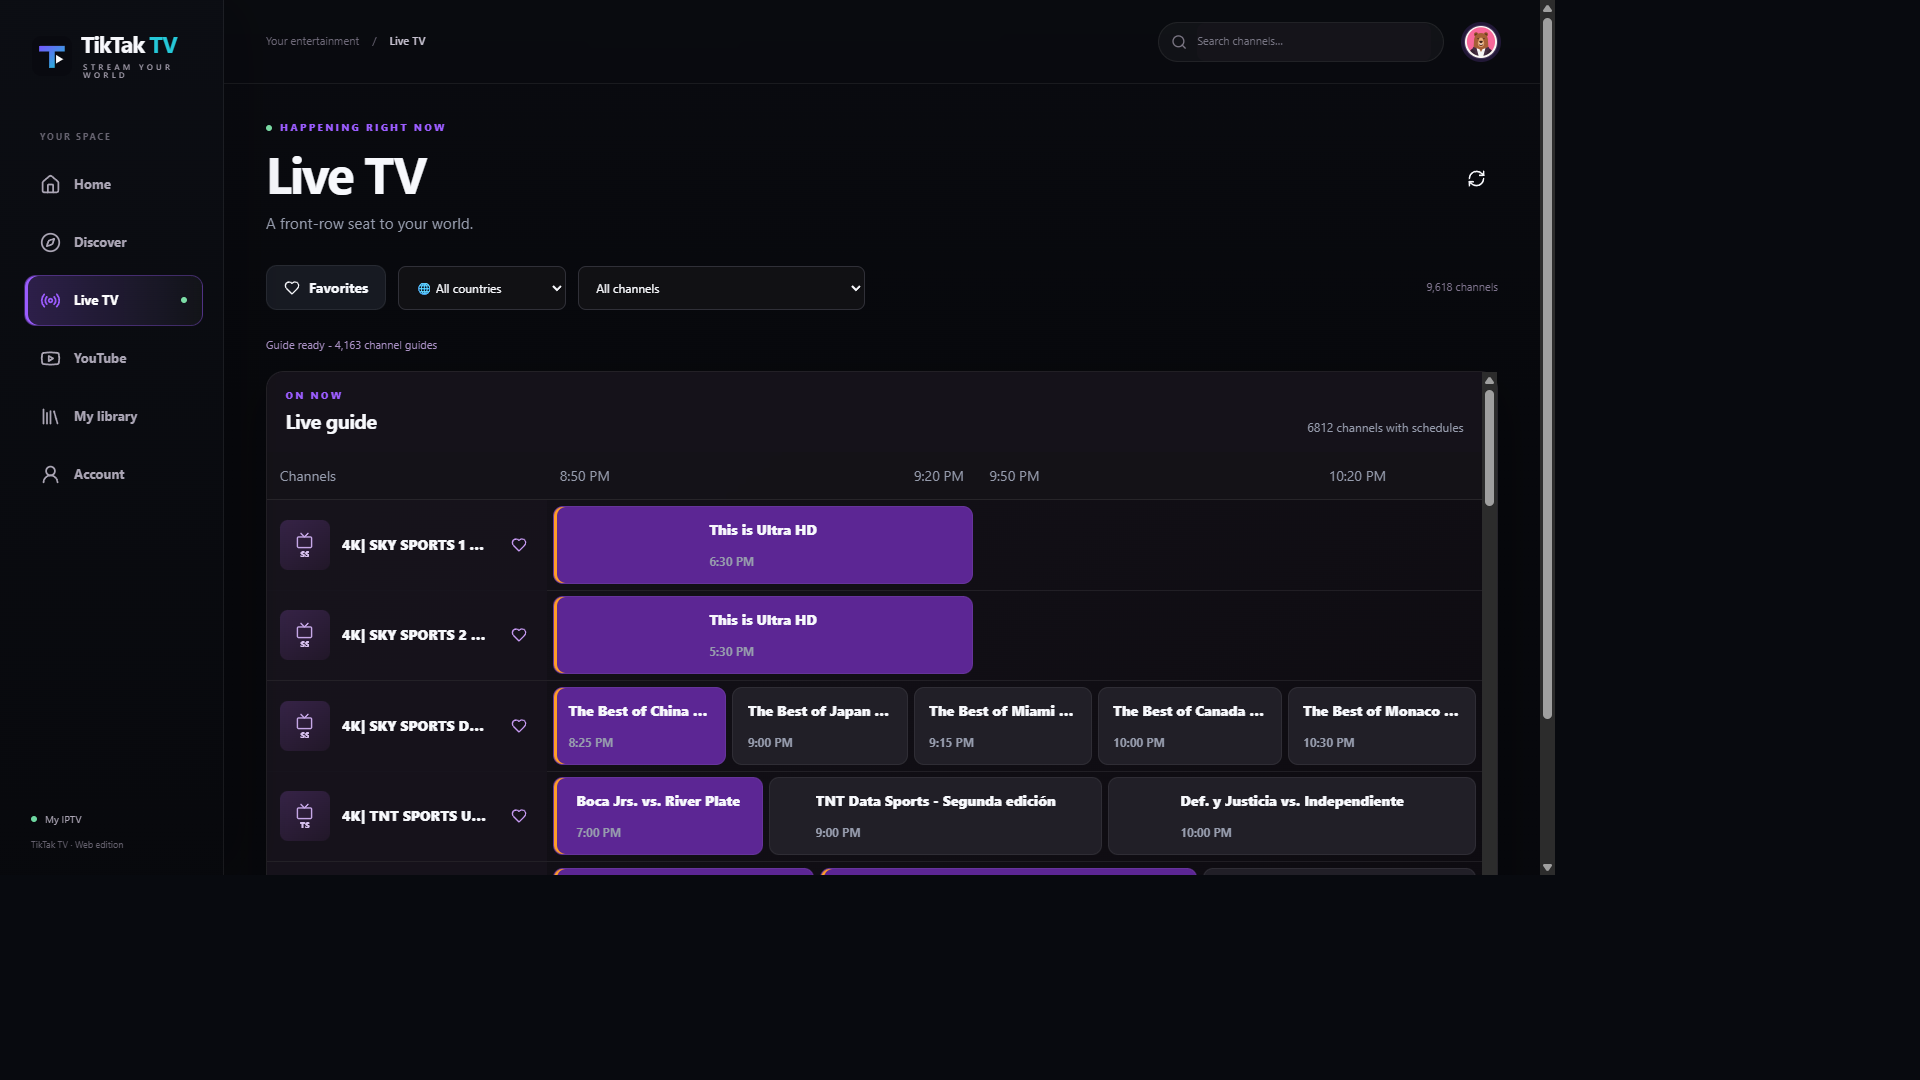
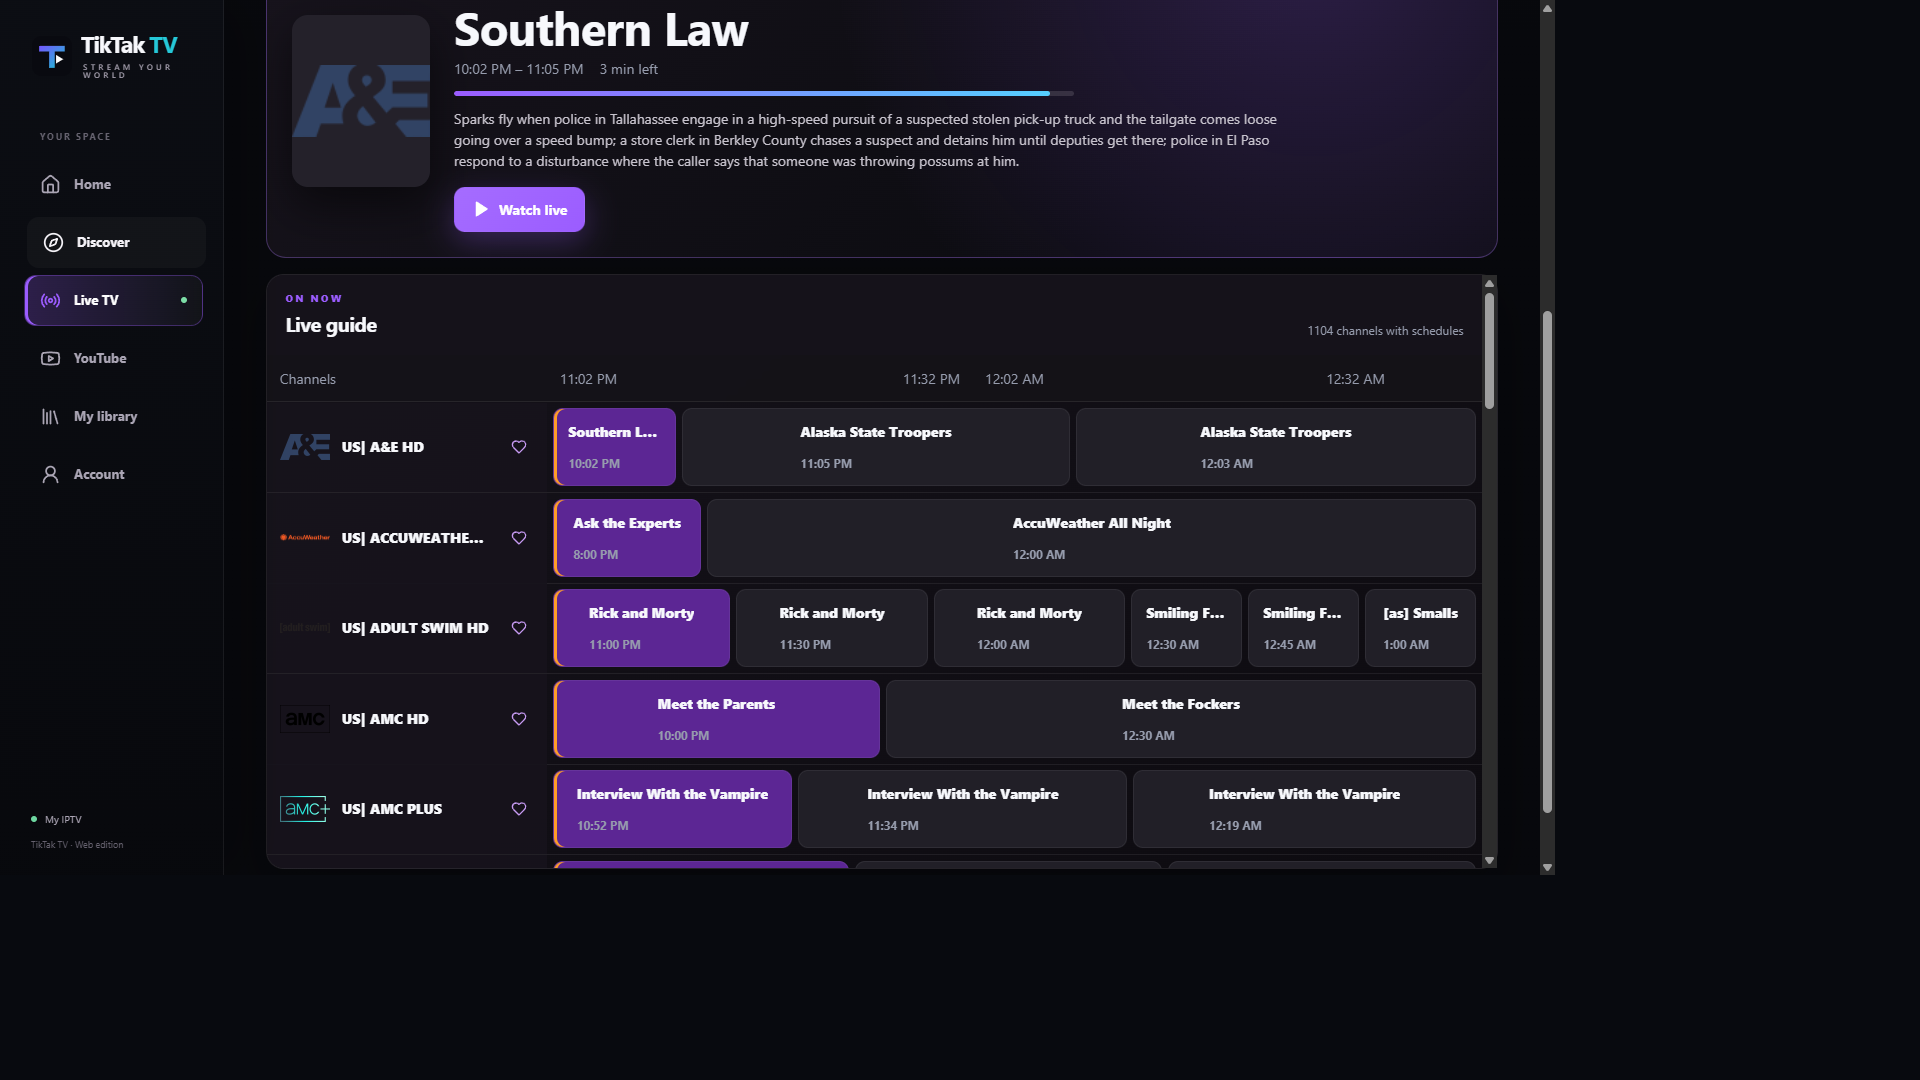
Finish in-app feedback and defer channel artwork

diff --git a/web/src/ChannelArt.tsx b/web/src/ChannelArt.tsx
@@ -68,6 +68,36 @@ export default function ChannelArt({
   const [source, setSource] = useState(candidates[0] ?? "");
   const [failed, setFailed] = useState(!candidates.length);
   const objectUrl = useRef("");
+  const placeholder = useRef<HTMLDivElement>(null);
+  const [relayVisible, setRelayVisible] = useState(
+    !candidates[0]?.startsWith("http:"),
+  );
+
+  useEffect(() => {
+    const first = candidates[0] ?? "";
+    if (!first.startsWith("http:")) {
+      setRelayVisible(true);
+      return;
+    }
+    setRelayVisible(false);
+    const node = placeholder.current;
+    if (!node || !("IntersectionObserver" in window)) {
+      setRelayVisible(true);
+      return;
+    }
+    const observer = new IntersectionObserver(
+      (entries) => {
+        if (!entries.some((entry) => entry.isIntersecting)) return;
+        setRelayVisible(true);
+        observer.disconnect();
+      },
+      { rootMargin: "500px 0px" },
+    );
+    observer.observe(node);
+    return () => observer.disconnect();
+    // The joined signature intentionally resets observation only when a URL changes.
+    // eslint-disable-next-line react-hooks/exhaustive-deps
+  }, [signature]);
 
   useEffect(() => {
     let cancelled = false;
@@ -79,7 +109,7 @@ export default function ChannelArt({
     const first = candidates[0] ?? "";
     setSource(first.startsWith("http:") ? "" : first);
     setFailed(!candidates.length);
-    if (first.startsWith("http:"))
+    if (first.startsWith("http:") && relayVisible)
       void (async () => {
         for (let candidateIndex = 0; candidateIndex < candidates.length; candidateIndex += 1) {
           const candidate = candidates[candidateIndex];
@@ -109,7 +139,7 @@ export default function ChannelArt({
     };
     // The joined signature intentionally resets this image only when a URL changes.
     // eslint-disable-next-line react-hooks/exhaustive-deps
-  }, [signature]);
+  }, [signature, relayVisible]);
 
   const tryNext = async () => {
     const current = candidates[index];
@@ -152,7 +182,11 @@ export default function ChannelArt({
       onError={() => void tryNext()}
     />
   ) : (
-    <div className="art-fallback channel-art-fallback" aria-hidden="true">
+    <div
+      ref={placeholder}
+      className="art-fallback channel-art-fallback"
+      aria-hidden="true"
+    >
       <Tv />
       <span>{initials(channel.name)}</span>
     </div>

diff --git a/web/src/App.tsx b/web/src/App.tsx
@@ -46,6 +46,7 @@ import {
   UserRound,
   Sparkles,
   Star,
+  Trophy,
   Tv,
   Trash2,
   X,
@@ -243,7 +244,9 @@ function ProfileGate({
   const [busy, setBusy] = useState(true);
   const [error, setError] = useState("");
   const [authMode, setAuthMode] = useState<"signin" | "signup">("signin");
-  const [preview, setPreview] = useState<"home" | "live" | "youtube">("home");
+  const [preview, setPreview] = useState<
+    "home" | "live" | "sports" | "youtube"
+  >("home");
   const [notice, setNotice] = useState("");
   async function refresh() {
     const { data } = await account.auth.getSession();
@@ -328,7 +331,9 @@ function ProfileGate({
                     ? "TikTak TV home screen with featured movies and continue watching"
                     : preview === "live"
                       ? "TikTak TV Live TV guide with channels and schedules"
-                      : "TikTak TV YouTube screen with personalized video rows"
+                      : preview === "sports"
+                        ? "TikTak TV Sports screen with live games, scores, and channel artwork"
+                        : "TikTak TV YouTube screen with personalized video rows"
                 }
               />
             </div>
@@ -354,6 +359,12 @@ function ProfileGate({
                 onClick={() => setPreview("youtube")}
               >
                 <Youtube size={16} /> YouTube & music
+              </button>
+              <button
+                className={preview === "sports" ? "active" : ""}
+                onClick={() => setPreview("sports")}
+              >
+                <Trophy size={16} /> Sports & scores
               </button>
             </div>
           </div>

diff --git a/web/src/PrivacyStatus.tsx b/web/src/PrivacyStatus.tsx
@@ -18,7 +18,7 @@ import {
   type UsageSummary,
 } from "./usage-analytics";
 
-export default function PrivacyStatus() {
+export default function PrivacyStatus({ onOpenFeedback }: { onOpenFeedback: () => void }) {
   const [service, setService] = useState<"checking" | "online" | "offline">(
     "checking",
   );
@@ -285,13 +285,9 @@ export default function PrivacyStatus() {
             passwords and API keys. Clearing site data removes local caches.
           </p>
         </details>
-        <a
-          href="https://github.com/zachgus33/Tik-TakTV/issues/new"
-          target="_blank"
-          rel="noreferrer"
-        >
-          Send feedback or report a problem <ExternalLink size={15} />
-        </a>
+        <button type="button" className="text-link" onClick={onOpenFeedback}>
+          Send feedback or report a problem
+        </button>
       </section>
     </div>
   );

diff --git a/web/src/styles.css b/web/src/styles.css
@@ -2171,6 +2171,19 @@ button.selected {
   color: var(--muted);
   line-height: 1.65;
 }
+.public-launch-card .text-link {
+  width: fit-content;
+  padding: 0;
+  border: 0;
+  background: transparent;
+  color: var(--accent-soft, #f472b6);
+  font: inherit;
+  font-weight: 700;
+  text-align: left;
+}
+.public-launch-card .text-link:hover {
+  text-decoration: underline;
+}
 :focus-visible {
   outline: 3px solid color-mix(in srgb, var(--accent) 75%, white);
   outline-offset: 3px;
@@ -7003,7 +7016,7 @@ button.primary:hover,
 }
 .profile-preview-tabs {
   display: grid;
-  grid-template-columns: repeat(3, 1fr);
+  grid-template-columns: repeat(4, 1fr);
   gap: 9px;
   margin-top: 10px;
 }

diff --git a/web/src/Settings.tsx b/web/src/Settings.tsx
@@ -705,7 +705,9 @@ export default function Settings(props: Props) {
             />
           )}
           {section === "downloads" && <DownloadCenter />}
-          {section === "privacy" && <PrivacyStatus />}
+          {section === "privacy" && (
+            <PrivacyStatus onOpenFeedback={() => setSection("feedback")} />
+          )}
           {section === "feedback" && <FeedbackCenter />}
           {section === "whatsnew" && (
             <WhatsNewPanel onOpenFeedback={() => setSection("feedback")} />
